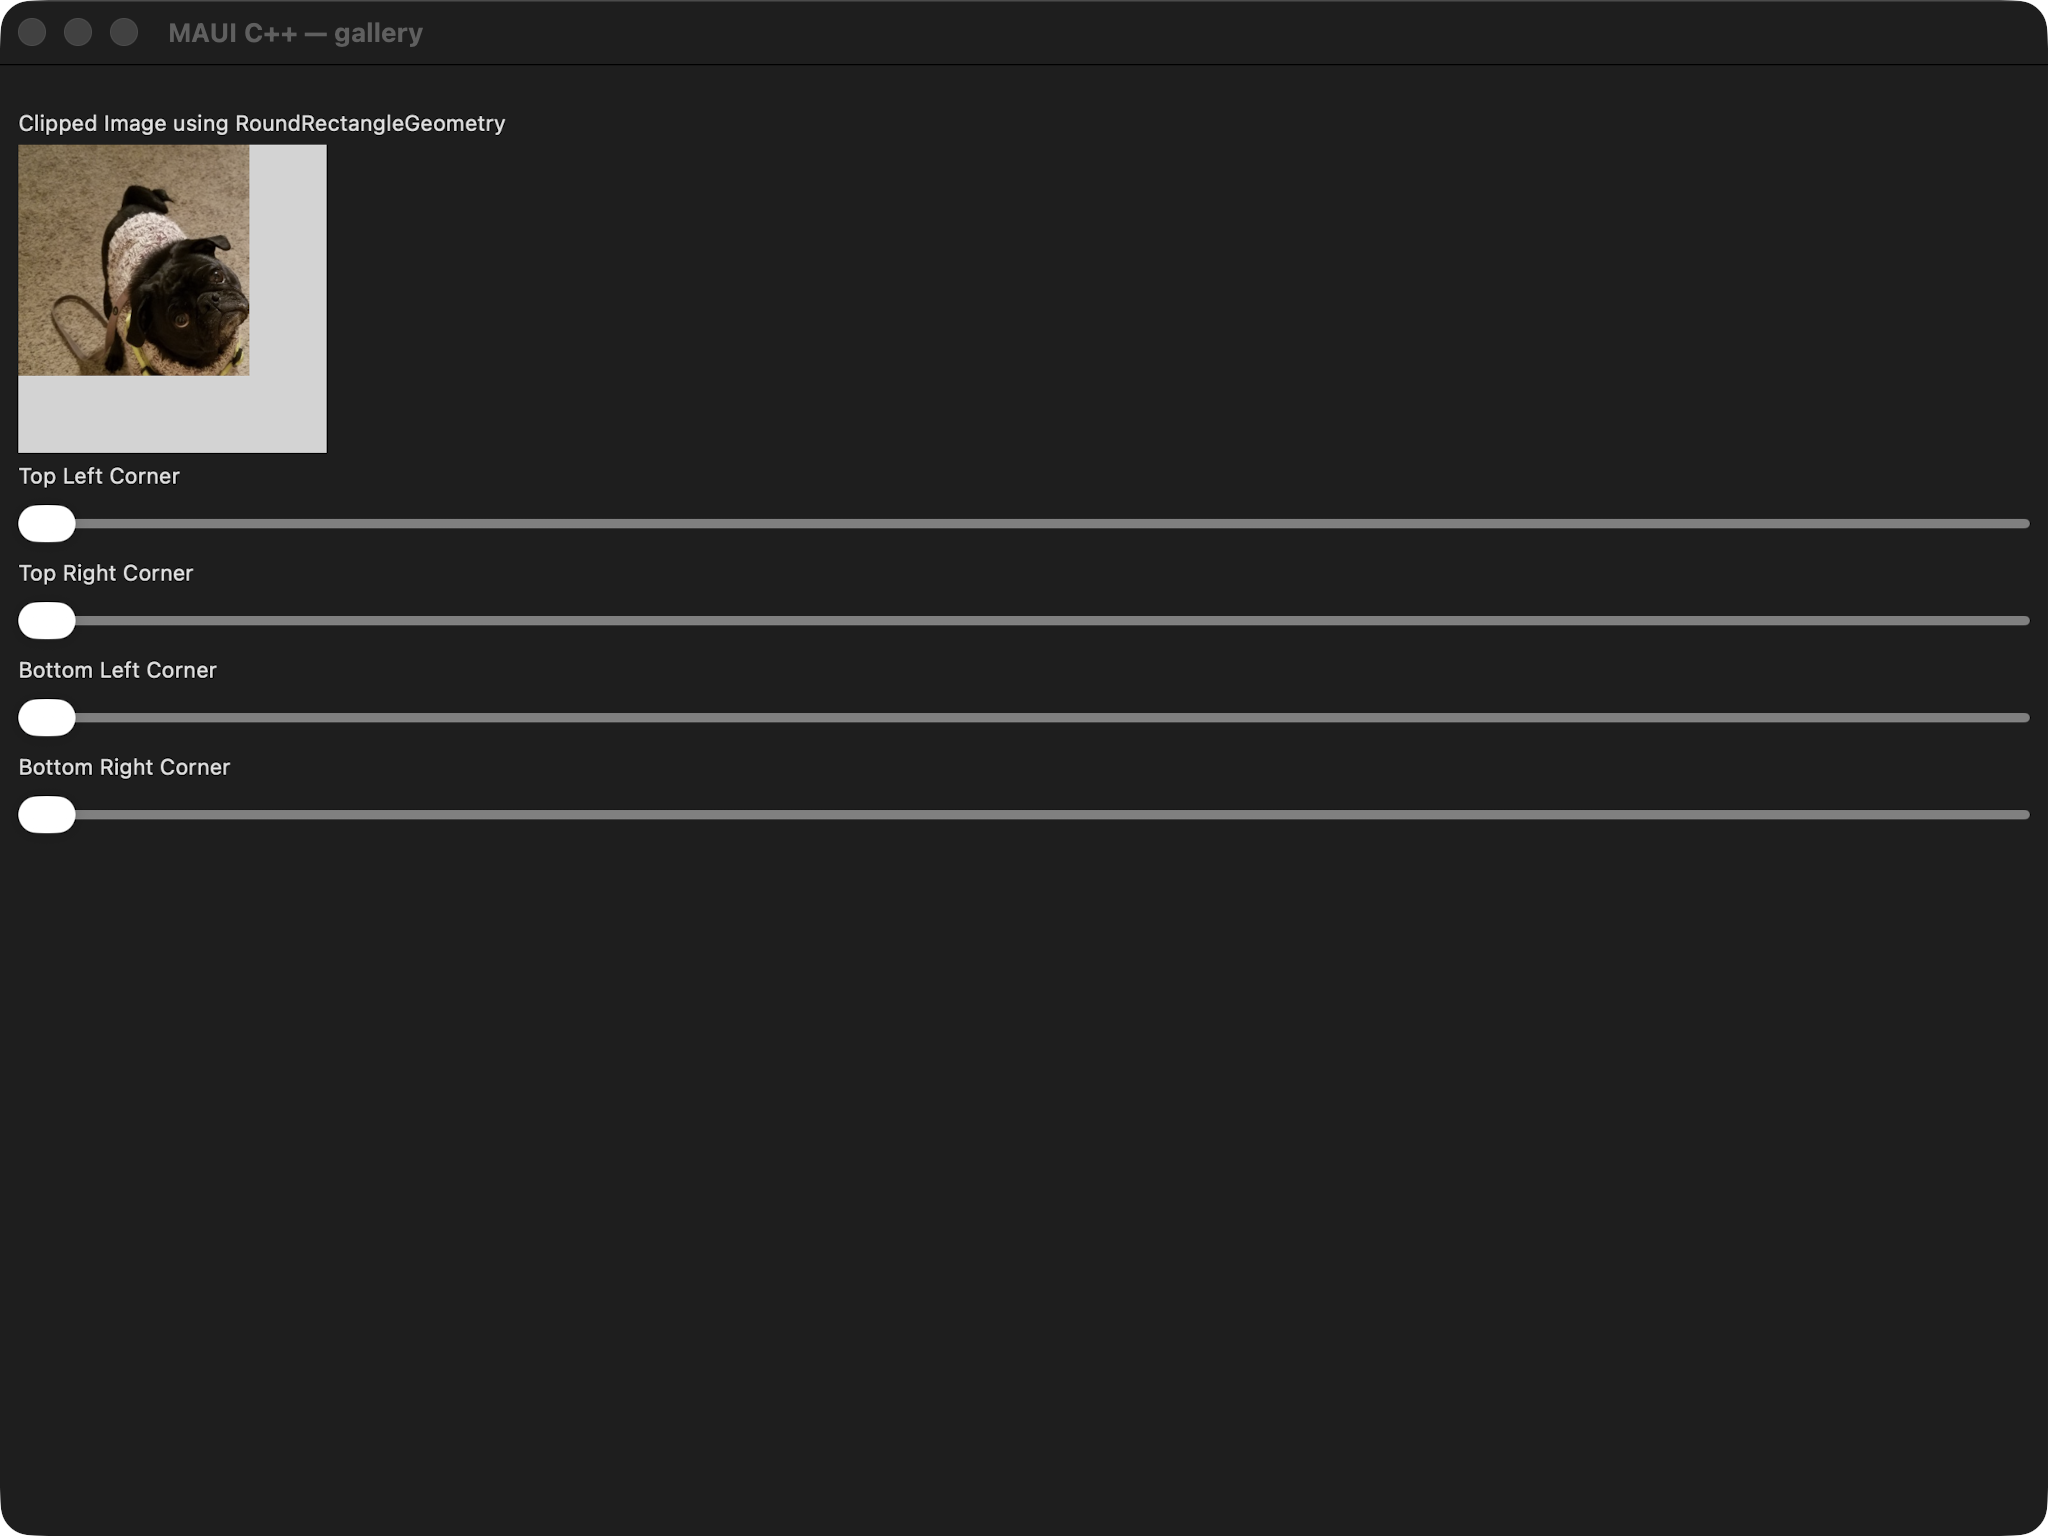
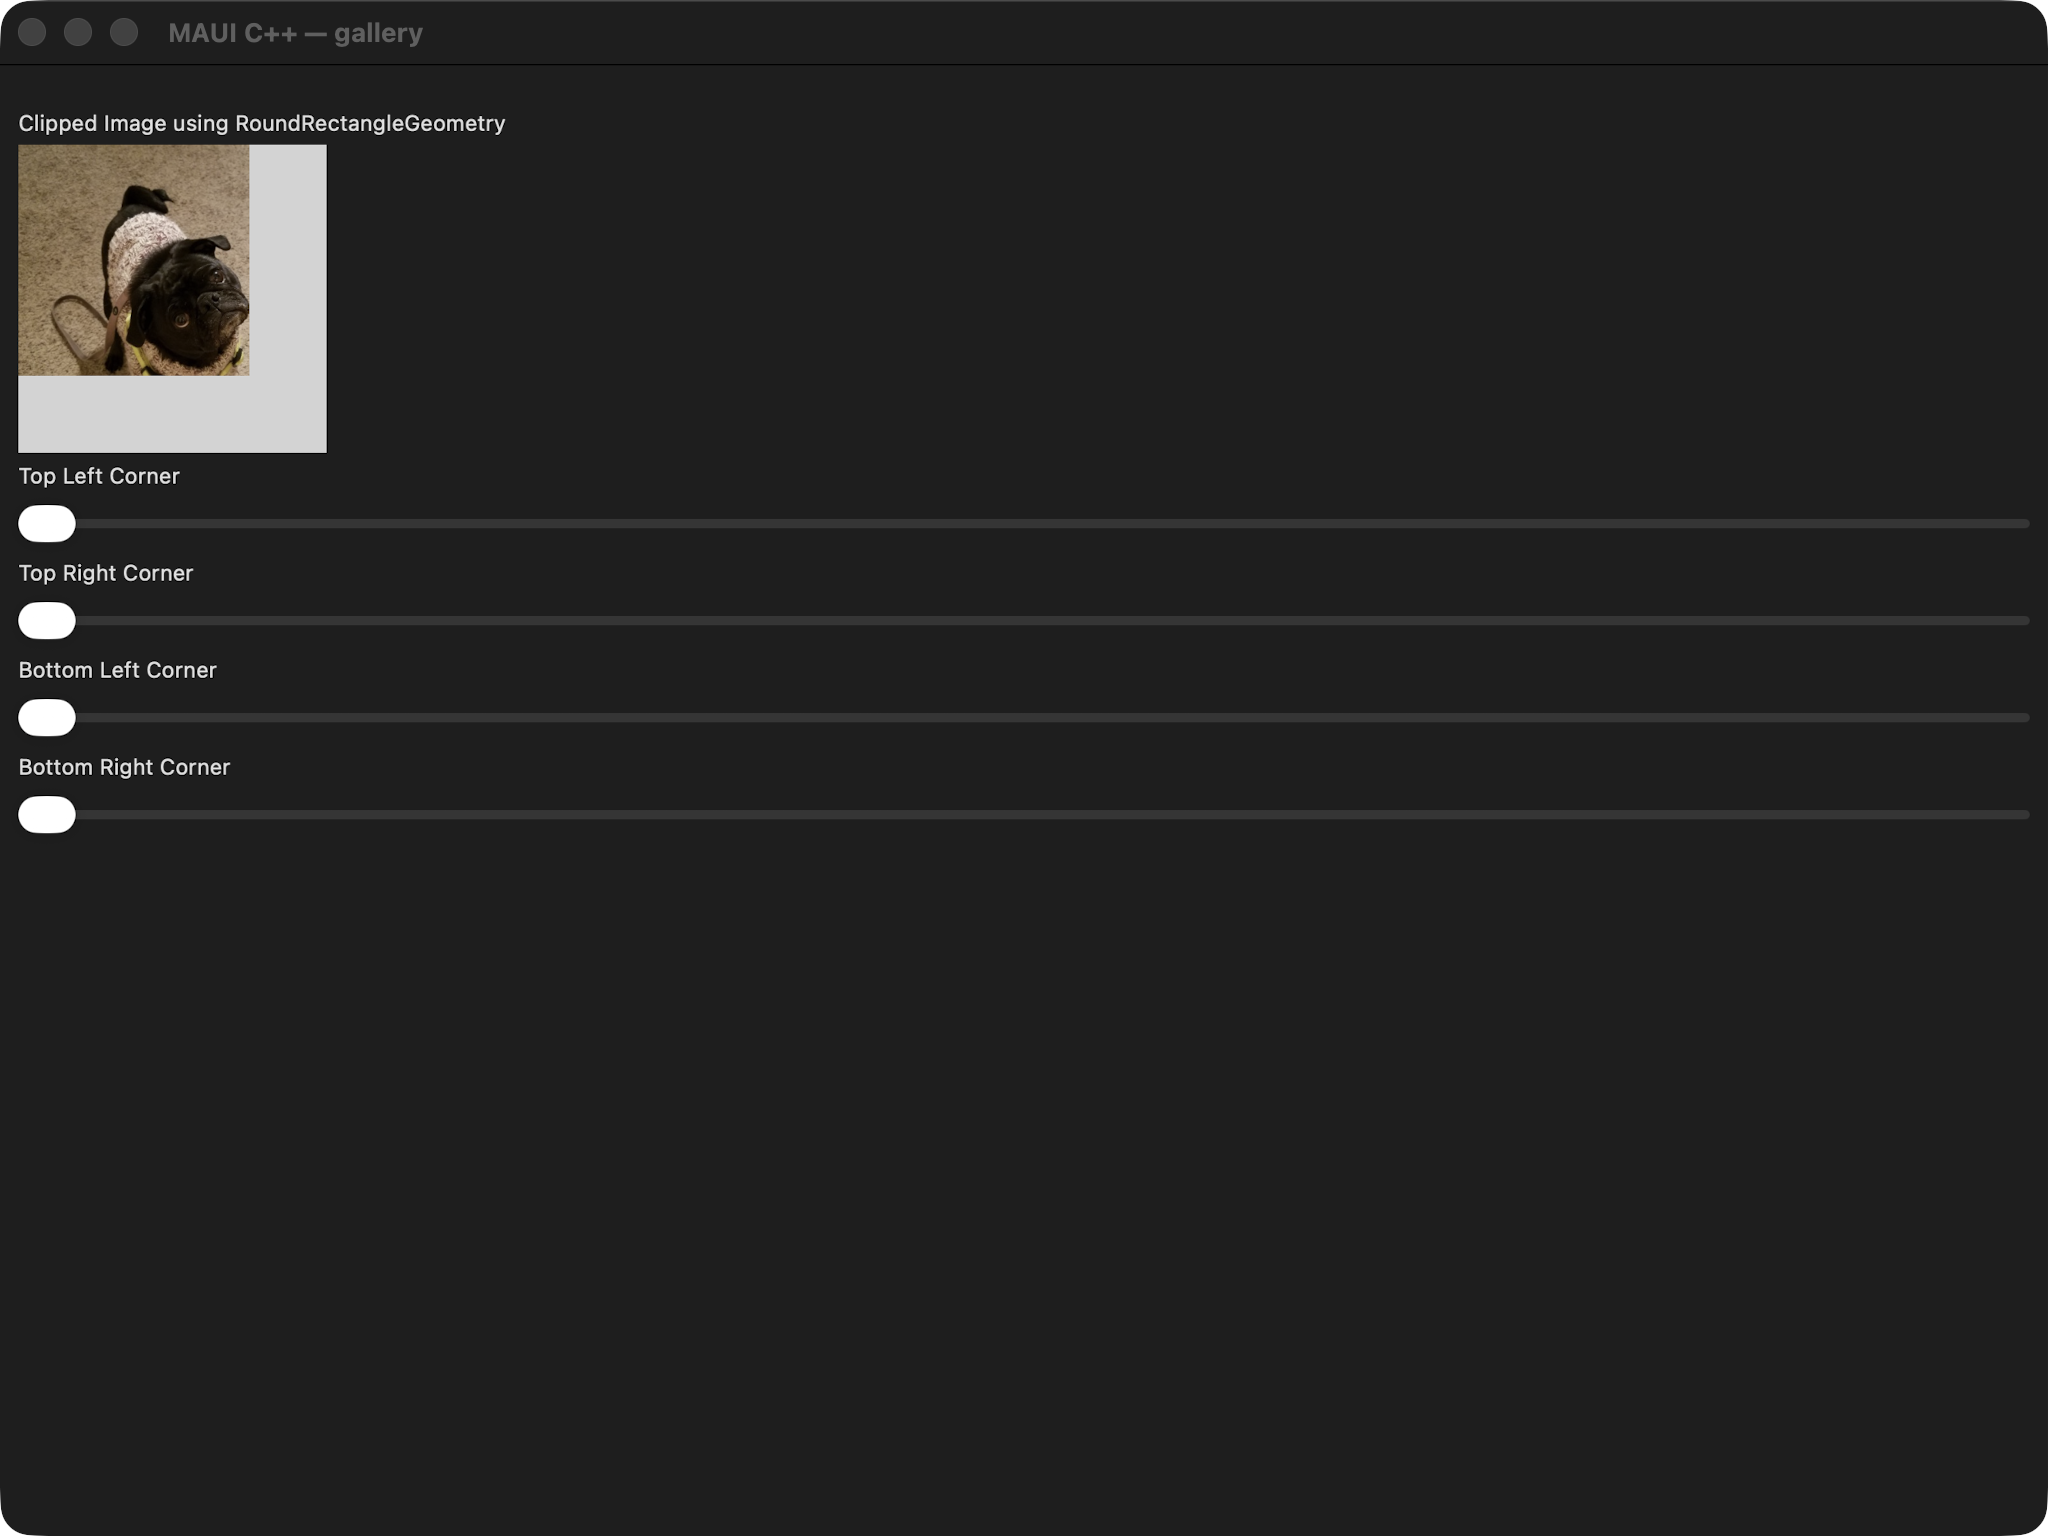
fix(gallery): clip_corner_radius — stop setting explicit slider track colors
The builder page set MinimumTrackColor=LightGray/MaximumTrackColor=Gray on all
four corner sliders, mirroring the original C# sample's page-local <Style
TargetType="Slider"> resource. But MauiReference's App.xaml intentionally
skips page/app style merging for the parity captures (port/CLAUDE.md ruling
4), so the shared twin (pages/clip_corner_radius.xaml) already leaves these
colors at native default — and real MAUI's own capture shows the native
UISlider track, not LightGray/Gray.

On Mac Catalyst the builder's AppKit NSSlider.trackFillColor is NOT a no-op
(unlike MaximumTrackColor, which has no public API) — it painted a visibly
darker gray track even at Value=0, when nothing is "filled" yet. This is what
the new cpp<->xaml consistency check caught: cpp and xaml were both reviewed
"green" against MAUI despite diverging from each other on this exact detail.

Fix: leave the sliders' track colors at native default in the builder too,
matching the twin and MAUI's ground-truth render.

Verified: gallery_structure_equivalence.clip_corner_radius / gallery_twin* /
gallery_twin_render all green; recaptured maccatalyst cpp light+dark — the
track now matches MAUI and the xaml column pixel-for-pixel; `e2e.py
consistency --only clip_corner_radius` now reports 0 flags.

diff --git a/port/cpp/examples/gallery/pages/clip_corner_radius_page.hpp b/port/cpp/examples/gallery/pages/clip_corner_radius_page.hpp
@@ -27,7 +27,12 @@
 //     The (old, new) payload is ignored; the handler re-reads all four sliders' current ::value() and
 //     rebuilds set_corner_radius, exactly like the C# handler reads the four .Value properties.
 //   - CornerRadius(TL, TR, BL, BR)                 -> graphics::corner_radius{tl, tr, bl, br} (same 4-arg order).
-//   - MinimumTrackColor=LightGray, MaximumTrackColor=Gray (the Slider style) -> set_minimum/maximum_track_color.
+//   - MinimumTrackColor=LightGray, MaximumTrackColor=Gray (the Slider style) -> DELIBERATELY NOT applied (see
+//     add_corner_slider below): the page-local <Style TargetType="Slider"> resource that sets these on the
+//     original C# sample is never merged in the parity captures (MauiReference's App.xaml skips page/app
+//     styles by design, port/CLAUDE.md ruling 4), so MAUI's own ground-truth render shows the NATIVE-DEFAULT
+//     track, not LightGray/Gray. The shared twin (pages/clip_corner_radius.xaml) already leaves these
+//     default; this builder now matches.
 //
 // HEADLESS-SAFE maui:: API only; the page OWNS its whole element tree (the generic mount in app_host.hpp
 // attaches every owned view's handler and hosts the tree). This is a
@@ -96,8 +101,8 @@ namespace maui::samples
             stack_.add(container_);
 
             // The four labeled corner sliders, in the XAML order: TL, TR, BL, BR. Each Minimum=0
-            // Maximum=60, MinimumTrackColor=LightGray, MaximumTrackColor=Gray (the Slider style), every
-            // one wired to the shared OnCornerChanged.
+            // Maximum=60 (native-default track colors — see add_corner_slider's PORT NOTE), every one
+            // wired to the shared OnCornerChanged.
             add_corner_slider(top_left_label_, "Top Left Corner", top_left_corner_);
             add_corner_slider(top_right_label_, "Top Right Corner", top_right_corner_);
             add_corner_slider(bottom_left_label_, "Bottom Left Corner", bottom_left_corner_);
@@ -147,8 +152,8 @@ namespace maui::samples
         }
 
     private:
-        // Add one "<Label Text=…> over a corner Slider" pair: Minimum=0 Maximum=60, track colors per the
-        // Slider style, ValueChanged="OnCornerChanged".
+        // Add one "<Label Text=…> over a corner Slider" pair: Minimum=0 Maximum=60, ValueChanged=
+        // "OnCornerChanged". Track colors are left at native default (see PORT NOTE below).
         void add_corner_slider(maui::controls::label& text, const char* caption, maui::controls::slider& corner)
         {
             text.set_text(caption);
@@ -156,8 +161,15 @@ namespace maui::samples
 
             corner.set_minimum(0);
             corner.set_maximum(60);
-            corner.set_minimum_track_color(maui::graphics::color::from_rgb(211, 211, 211)); // LightGray
-            corner.set_maximum_track_color(maui::graphics::color::from_rgb(128, 128, 128)); // Gray
+            // NOTE: the original C# sample sets MinimumTrackColor=LightGray / MaximumTrackColor=Gray via a
+            // page-local <Style TargetType="Slider"> resource. The shared twin (pages/clip_corner_radius.xaml)
+            // deliberately omits these (its comment: "best-effort, left default") because MauiReference's
+            // App.xaml intentionally does NOT merge Styles.xaml/page-local styles for the parity captures
+            // (port/CLAUDE.md ruling 4) — so real MAUI's own capture renders the NATIVE-DEFAULT UISlider track
+            // (a light system gray), not LightGray/Gray. Setting explicit track colors here diverged visibly
+            // from both the twin and MAUI's actual render (Mac Catalyst AppKit's NSSlider.trackFillColor paints
+            // solid Gray even at Value=0, when nothing is "filled" yet) — so this builder now also leaves the
+            // track colors at their native default to match.
             // ValueChanged="OnCornerChanged": the (old, new) payload is unused; the handler re-reads all
             // four sliders and rebuilds the clip's CornerRadius, exactly like the C# handler.
             corner.value_changed.connect([this](double, double) { on_corner_changed(); });
